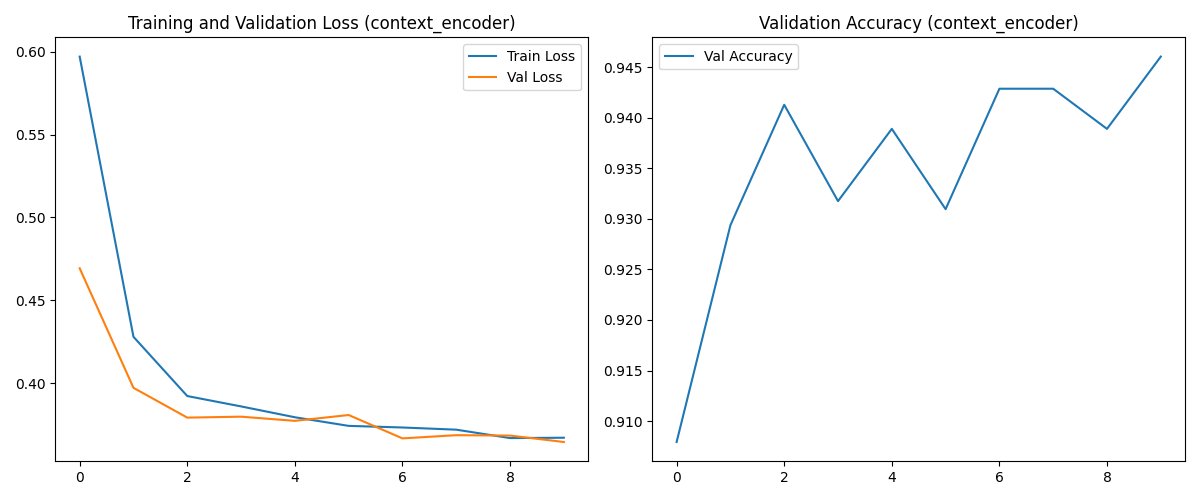
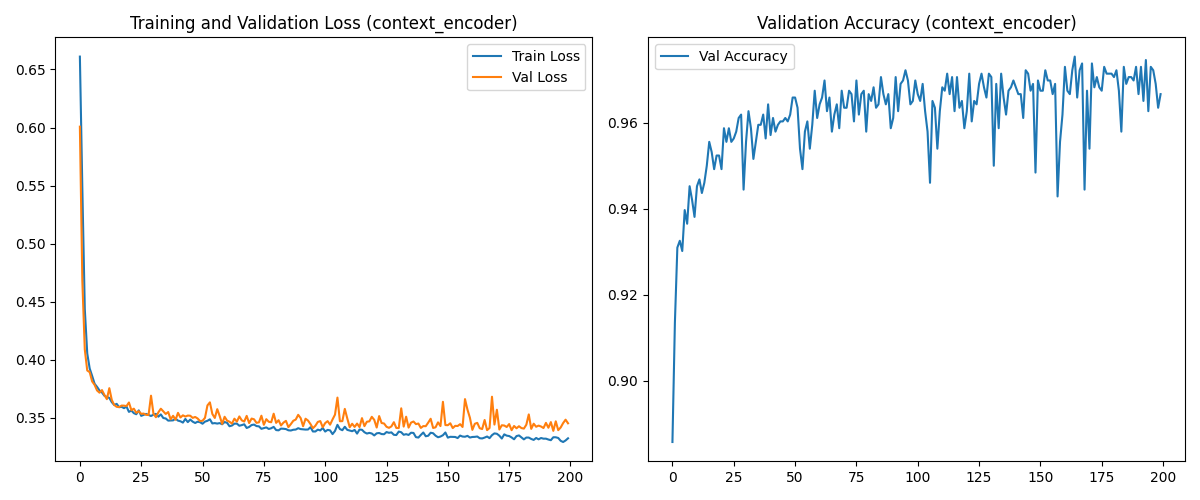
classifier trained

diff --git a/context_encoder/classifier.py b/context_encoder/classifier.py
@@ -25,16 +25,18 @@ class WildfireClassifier(nn.Module):
             nn.Linear(256, 128),
             nn.ReLU(),
             nn.Dropout(0.2),
-            nn.Linear(128, 2), 
-            nn.Softmax()
+            nn.Linear(128, 2)
         )
 
     def forward(self, x):
-        # Get encoder features 
+        # Get encoder features
         features, _ = self.encoder(x)
         
         # Pass through classifier
-        output = self.classifier(features)
+        logits = self.classifier(features)
+        
+        output = F.softmax(logits, dim=-1)
+        
         return output.squeeze()
 
 def create_wildfire_classifier(context_encoder_path, freeze_backbone=True,hidden_dim=64):

diff --git a/context_encoder/train_context_encoder.py b/context_encoder/train_context_encoder.py
@@ -139,7 +139,6 @@ def main():
     print(args.bar_load)
     for epoch in range(args.epochs):
         # Train
-        mask_size = np.random.randint(10,100)
         train_losses = train_one_epoch(
             context_encoder=context_encoder,
             discriminator=discriminator,
